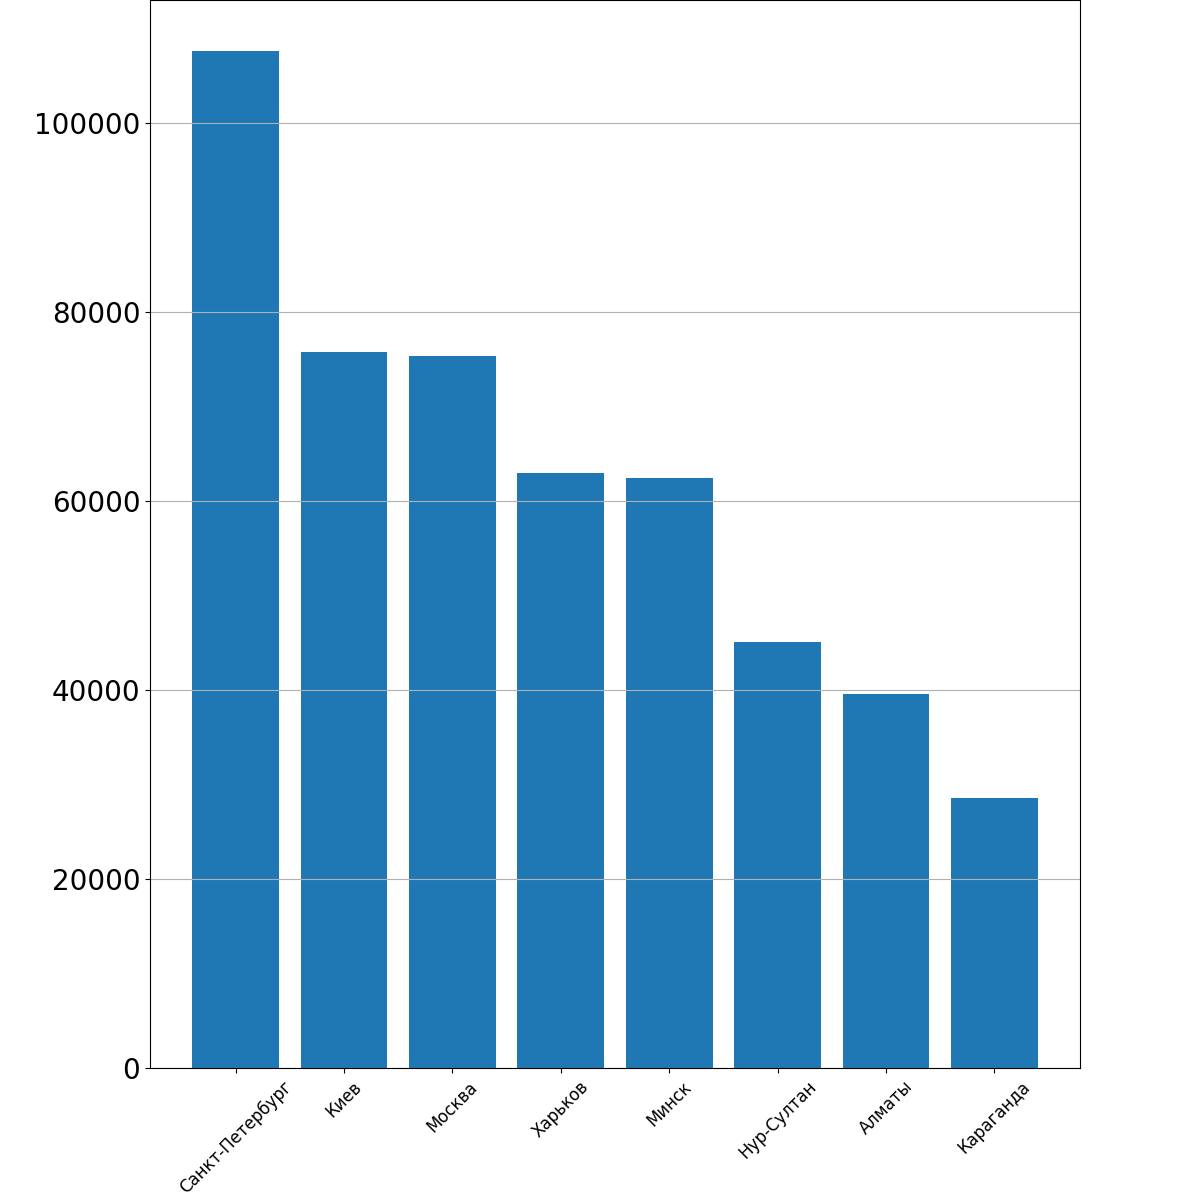
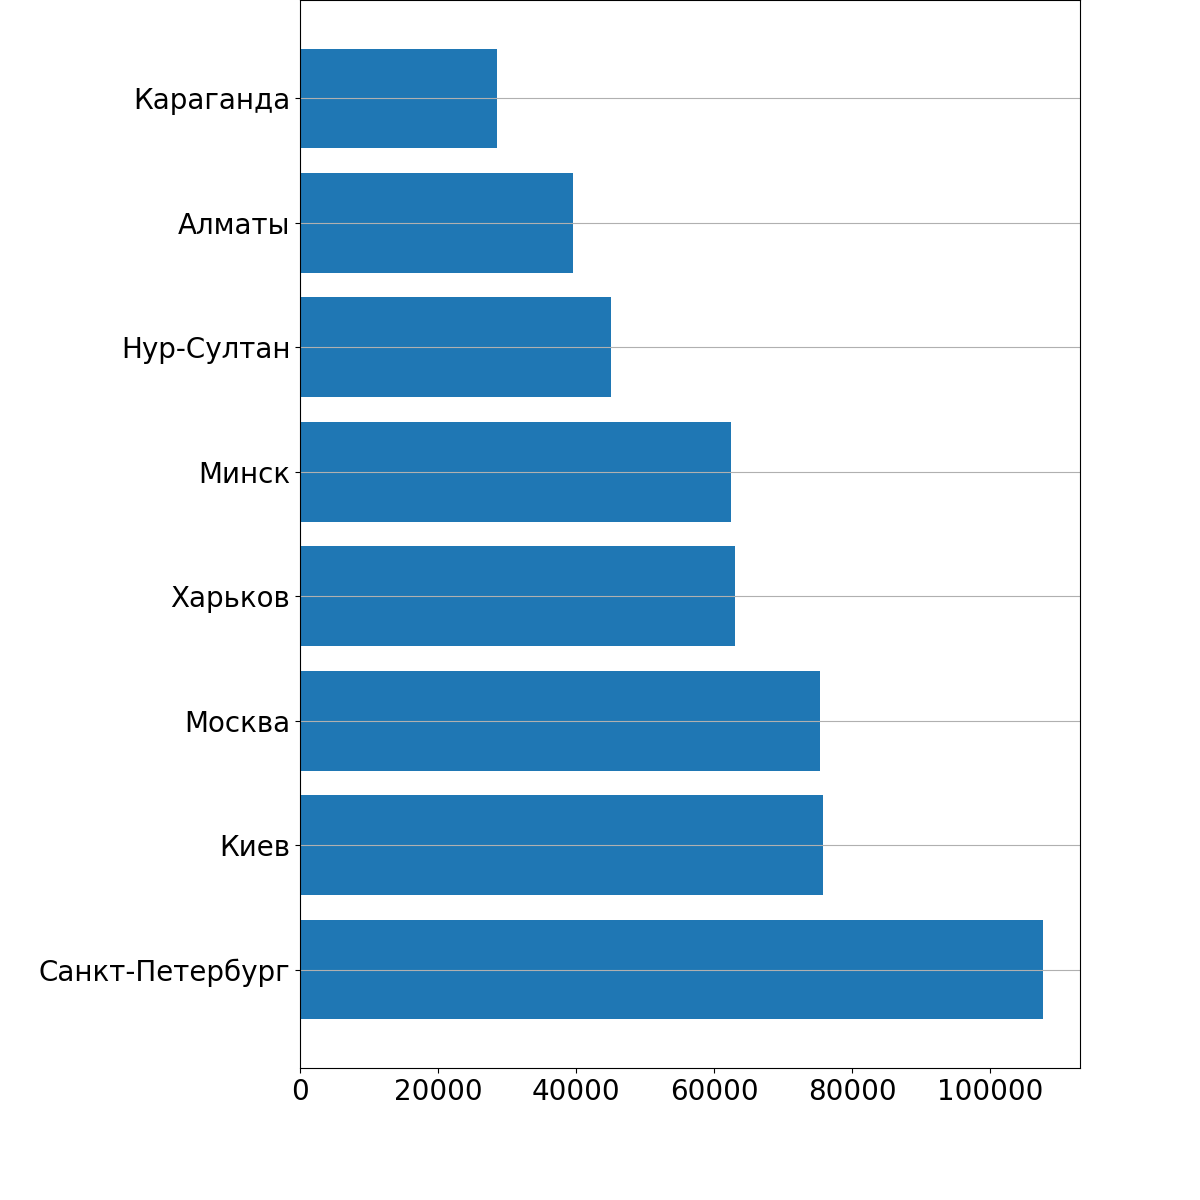
grinding

diff --git a/templates/last_vacancies.html b/templates/last_vacancies.html
@@ -19,34 +19,35 @@
         <input class="btn btn-primary" name="submit-input" type="submit" value="Получить">
     </form>
 
-    {% for vacancy in vacancies %}
-        <div class="card border-info mb-3" style="max-width: 50rem;">
-            <div class="card-header">Вакансия</div>
-            <div class="card-body">
-                <a href="{{ vacancy.href }}" target="_blank"><h2 class="card-title">{{ vacancy.name }}</h2></a>
-                <p>{{ vacancy.area_name }}<br><b>{{ vacancy.company }}</b></p>
-                {% if vacancy.description|length <= 100 %}
-                    <p class="card-text fs-5">{{ vacancy.description }}</p>
-                {% else %}
-                    <p class="card-text fs-5">{{ vacancy.description|slice:"0:100" }}...</p>
-                {% endif %}
-                {% if vacancy.skills|length <= 50 %}
-                    <p class="card-text">{{ vacancy.skills }}</p>
-                {% else %}
-                    <p class="card-text">{{ vacancy.skills|slice:"0:50" }}...</p>
-                {% endif %}
+    <div class="d-flex flex-wrap justify-content-between">
+        {% for vacancy in vacancies %}
+            <div class="card border-info mb-3" style="max-width: 49.5%">
+                <div class="card-header">Вакансия</div>
+                <div class="card-body d-flex flex-column justify-content-between">
+                    <a href="{{ vacancy.href }}" target="_blank"><h2 class="card-title">{{ vacancy.name }}</h2></a>
+                    <p>{{ vacancy.area_name }}<br><b>{{ vacancy.company }}</b></p>
+                    {% if vacancy.description|length <= 100 %}
+                        <p class="card-text fs-5">{{ vacancy.description }}</p>
+                    {% else %}
+                        <p class="card-text fs-5">{{ vacancy.description|slice:"0:100" }}...</p>
+                    {% endif %}
+                    {% if vacancy.skills|length <= 50 %}
+                        <p class="card-text">{{ vacancy.skills }} </p>
+                    {% else %}
+                        <p class="card-text">{{ vacancy.skills|slice:"0:50" }}...</p>
+                    {% endif %}
 
-                <div class="d-flex card-text justify-content-between">
-                    <p class="d-block">
-                        <b>{{ vacancy.salary }} {{ vacancy.salary_currency }}</b>
-                    </p>
-                    <p class="d-block">
-                        {{ vacancy.published_at|date:"d.m.Y" }}, {{ vacancy.published_at|date:"H:i:s" }}
-                    </p>
+                    <div class="d-flex card-text justify-content-between">
+                        <p class="d-block">
+                            <b>{{ vacancy.salary }} {{ vacancy.salary_currency }}</b>
+                        </p>
+                        <p class="d-block">
+                            {{ vacancy.published_at|date:"d.m.Y" }}, {{ vacancy.published_at|date:"H:i:s" }}
+                        </p>
+                    </div>
                 </div>
             </div>
-        </div>
-    {% endfor %}
-
+        {% endfor %}
+    </div>
 
 {% endblock %}

diff --git a/main_app/statistics/statistics.py b/main_app/statistics/statistics.py
@@ -8,19 +8,20 @@ import tkinter
 def save_df_as_plot(df, path, x_key, y_key):
     plt.rc('font', size=20)
     fig = plt.figure()
-    plt.subplots_adjust(top=1)
     fig.set_figheight(12)
     fig.set_figwidth(12)
     ax = fig.add_subplot(1, 1, 1)
     ax.grid(axis='y')
-    ax.bar(df[x_key], df[y_key])
-    ax.tick_params(axis='x', labelrotation=45)
-
-    # увидел на каком то сайте просто. другого способа пока не нашёл
-    for label in ax.get_xticklabels():
-        if x_key != 'Year':
-            label.set_fontsize(12)
-
+    if x_key == "Year" or x_key == 'skill':
+        if x_key == 'skill':
+            for label in ax.get_xticklabels():
+                label.set_fontsize(12)
+        plt.subplots_adjust(top=1)
+        ax.bar(df[x_key], df[y_key])
+        ax.tick_params(axis='x', labelrotation=30)
+    else:
+        plt.subplots_adjust(top=1, left=0.25)
+        ax.barh(df[x_key], df[y_key])
     fig.savefig(path)
 
 
@@ -49,6 +50,7 @@ matplotlib.use('TkAgg')
 db = sqlite3.connect('statistics.db')
 c = db.cursor()
 
+'''
 salary_by_year = pd.read_sql("SELECT strftime('%Y', published_at) as Year, ROUND(AVG(salary)) as avg_salary FROM vacancies WHERE salary is not null GROUP BY strftime('%Y', published_at)", db)
 salary_by_year.to_csv('../static/tables/demand/salary_by_year.csv', encoding='utf-8-sig', index=False)
 save_df_as_plot(salary_by_year, '../static/plots/salary_by_year.png', 'Year', 'avg_salary')
@@ -80,8 +82,10 @@ fraction_by_area = pd.read_sql(f"SELECT area_name, ROUND(COUNT(salary) / {len_ta
 fraction_by_area.to_csv('../static/tables/geography/fraction_by_area.csv', encoding='utf-8-sig', index=False)
 save_df_as_plot(fraction_by_area, '../static/plots/fraction_by_area.png', 'area_name', 'fraction_vacancies')
 
+
 save_plots(salary_by_year, selected_salary_by_year, 'Year', 'avg_salary', 'avg_salary_for_selected', '../static/plots/diff_salary.png', ['средняя з/п в IT', 'средняя з/п для iOS-разработчиков'])
 save_plots(count_by_year, selected_count_by_year, 'Year', 'count_vacancies', 'count_vacancies_for_selected', '../static/plots/diff_count.png', ['количество IT вакансий', 'количество вакансий iOS-разработчика'])
+'''
 
 for year in range(2003, 2022):
     command = f'''

diff --git a/main_app/views.py b/main_app/views.py
@@ -1,14 +1,12 @@
 from datetime import timedelta, datetime
 import re
-from functools import reduce
-
-from django.http import HttpResponse, Http404
+from django.http import HttpResponse
 from django.shortcuts import render
 from .models import Demand, Geography, Skill, Year, Vacancy
 from pathlib import Path
 import csv
 import requests
-import json, time
+import json
 
 
 def csv_to_db_for_demand(model, path_to_csv):
@@ -57,6 +55,7 @@ def geography(request):
     salary = Geography.objects.order_by('-salary').values()
     fraction = Geography.objects.order_by('-fraction').values()
     path = Path(__file__).parent / r'static\tables\geography'
+    d = datetime()
     if len(salary) == 0 or len(fraction) == 0:
         csv_to_db_for_geography(Geography, path / r'compile.csv')
         salary = Geography.objects.order_by('-salary').values()
@@ -91,6 +90,7 @@ def clear(s):
     s = re.sub(r'<[^>]+>', '', s)
     s = re.sub(r' +', ' ', s).strip()
     return s
+
 
 def to_db(vac):
     obj = Vacancy()
@@ -147,7 +147,7 @@ def last_vacancies(request):
     Vacancy.objects.all().delete()
     idies = get_idies(json.loads(data))
     vacancies_to_db(idies)
-    vacancies = Vacancy.objects.order_by('-published_at').values()
+    vacancies = Vacancy.objects.order_by('-published_at').values()[:10]
     return render(request, 'last_vacancies.html', context={'vacancies': vacancies})
 
 

diff --git a/main_app/admin.py b/main_app/admin.py
@@ -1,9 +1,10 @@
 from django.contrib import admin
-from .models import Demand, Year, Geography, Skill
+from .models import Demand, Year, Geography, Skill, Vacancy
 # Register your models here.
 
 admin.site.register(Demand)
 admin.site.register(Year)
 admin.site.register(Geography)
 admin.site.register(Skill)
+admin.site.register(Vacancy)
 
